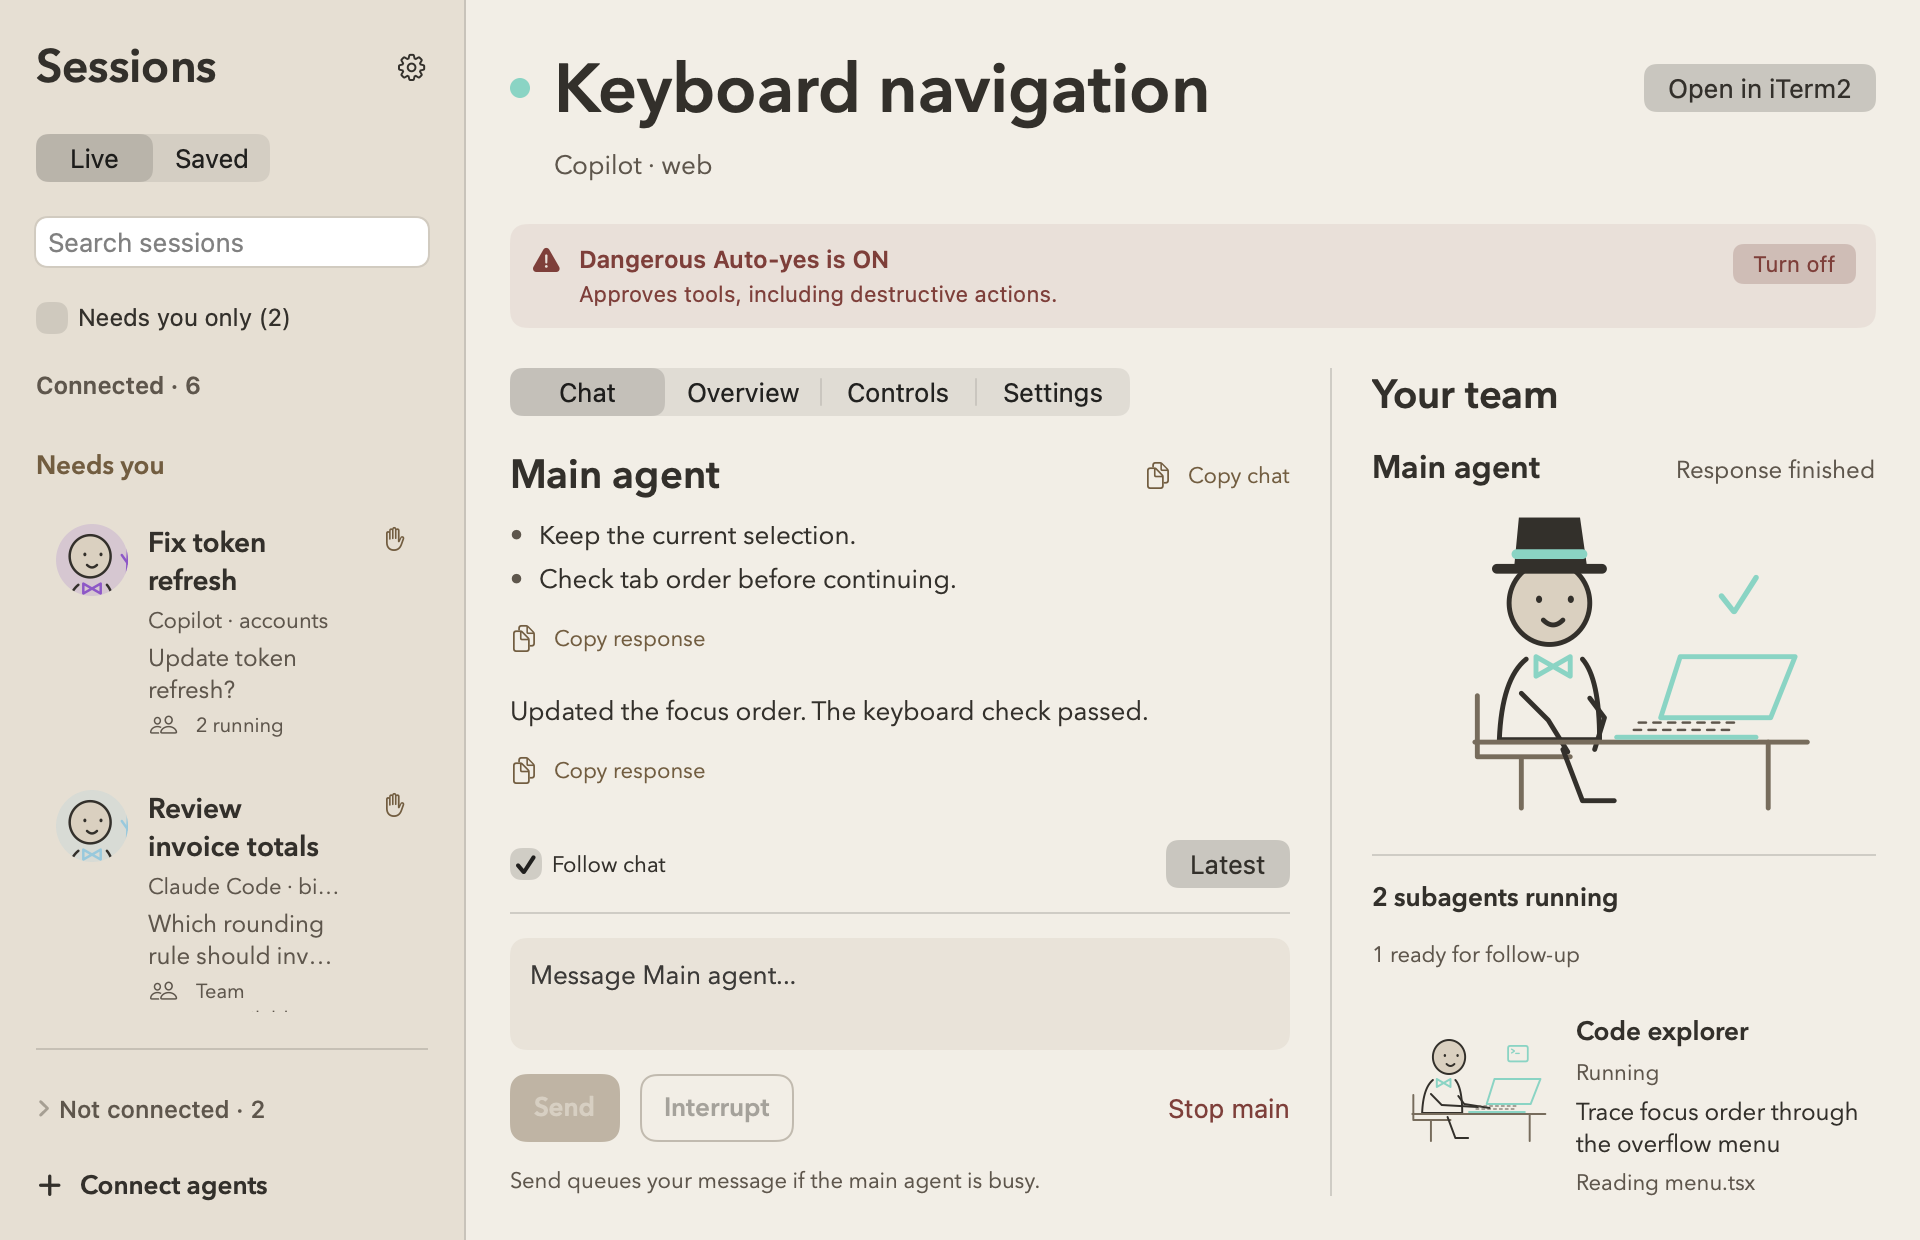
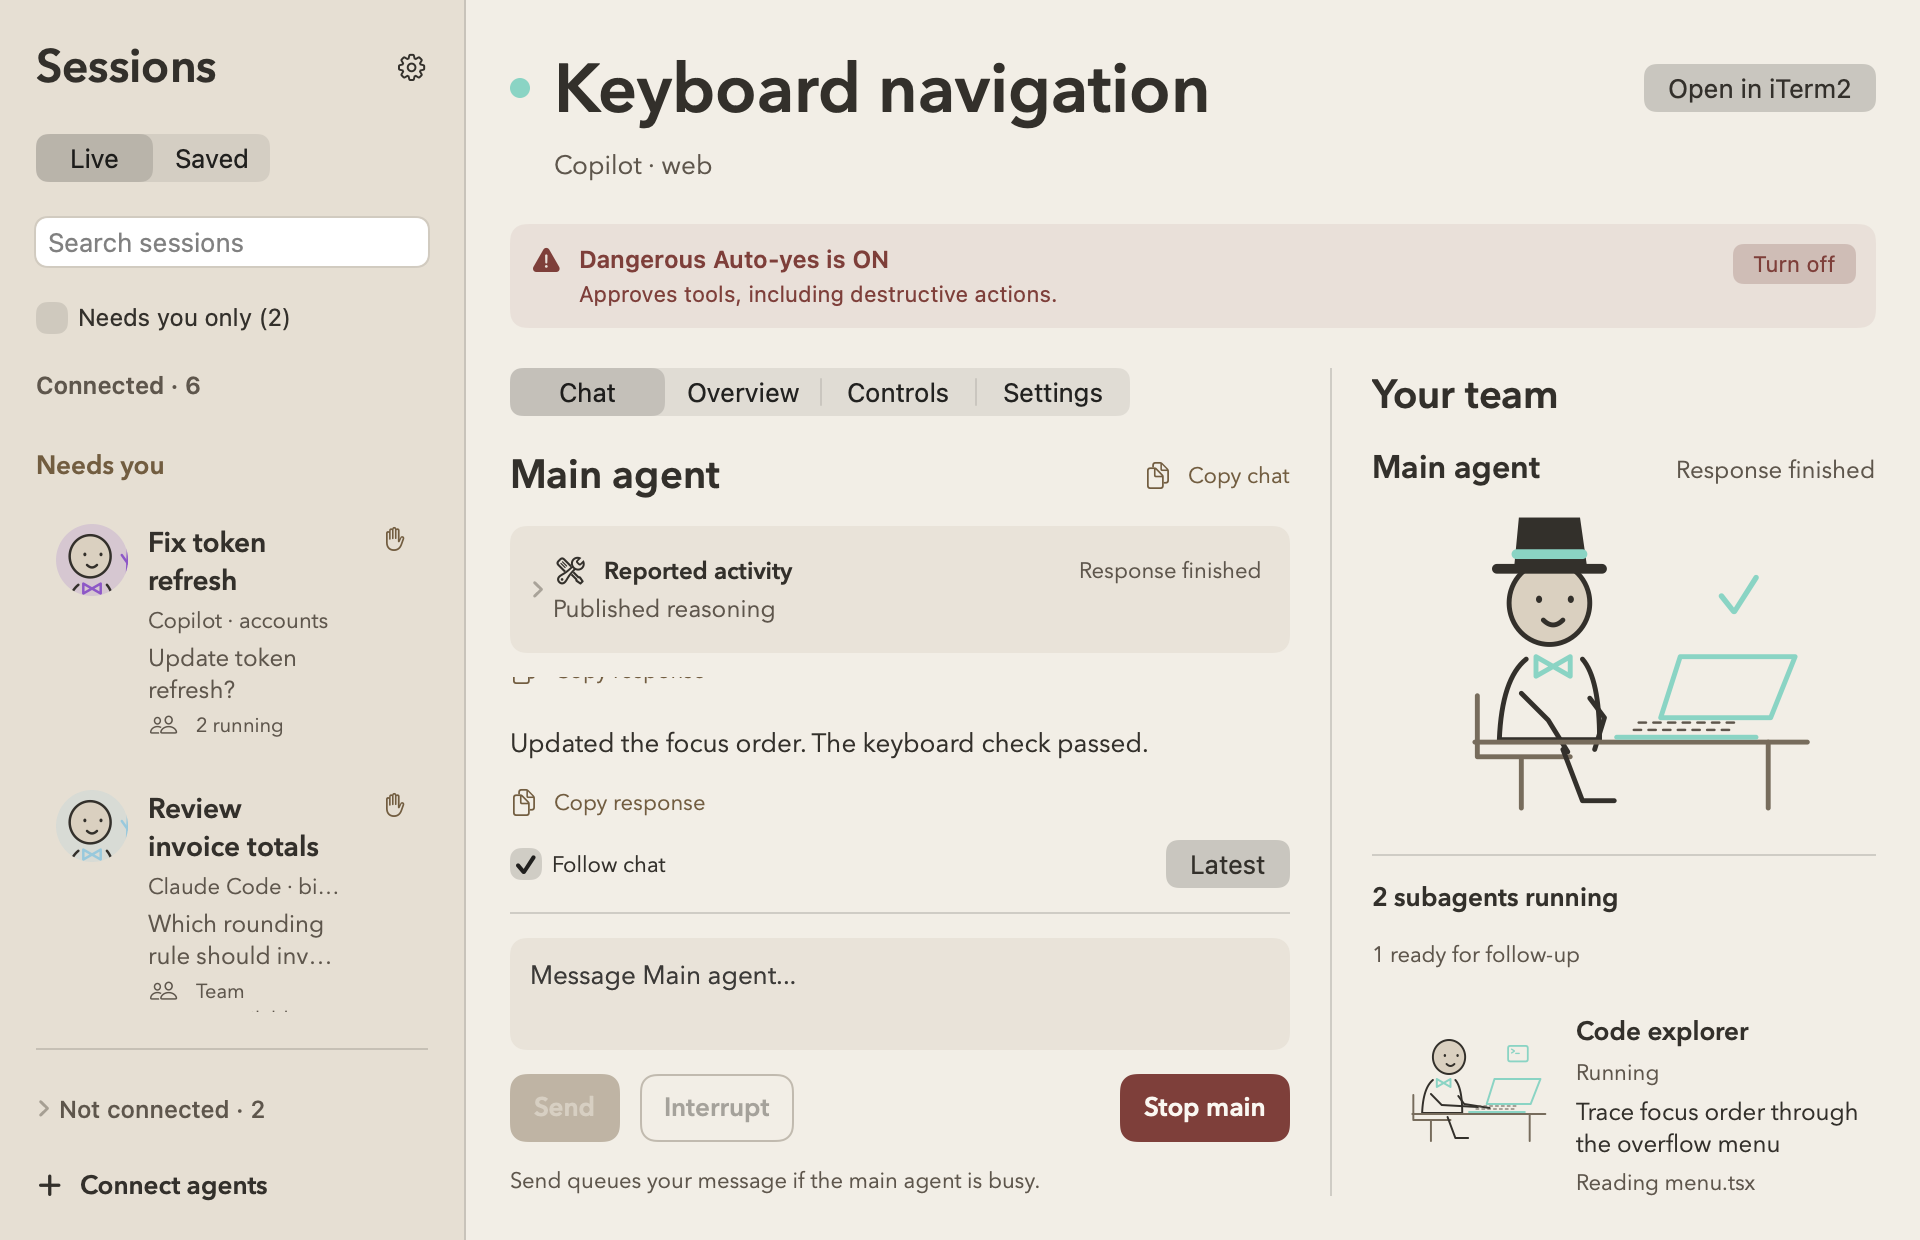
Clarify helper chat identity and add compact reported activity

diff --git a/Sources/NotifyApp/AgentChatView.swift b/Sources/NotifyApp/AgentChatView.swift
@@ -36,10 +36,24 @@ struct AgentChatView: View {
     var body: some View {
         VStack(alignment: .leading, spacing: 12) {
             HStack {
-                Text(targetName).font(WorkspaceType.text(20, strong: true)).lineLimit(2)
+                if agentID != nil {
+                    AgentIllustration(presence: .resting, accent: store.sessionColor(session), portrait: true)
+                        .frame(width: 40, height: 40).accessibilityHidden(true)
+                }
+                VStack(alignment: .leading, spacing: 3) {
+                    Text(targetName).font(WorkspaceType.text(20, strong: true)).lineLimit(2).textSelection(.enabled)
+                    if agentID != nil {
+                        Text("Subagent chat · messages go to this helper only")
+                            .font(WorkspaceType.text(11)).foregroundStyle(Palette.muted)
+                    }
+                }
                 Spacer()
                 CopyTextButton(text: rows.map(\.copyText).joined(separator: "\n\n"), label: "Copy chat")
             }
+            .padding(agentID == nil ? 0 : 10)
+            .background(agentID == nil ? Color.clear : store.sessionColor(session).opacity(0.12),
+                        in: RoundedRectangle(cornerRadius: 8))
+            AgentActivityPanel(session: session, agentID: agentID)
             ScrollViewReader { proxy in
                 ScrollView {
                     LazyVStack(alignment: .leading, spacing: 20) {
@@ -94,7 +108,7 @@ struct AgentChatView: View {
                 }
                 Spacer(minLength: 0)
                 Button(agentID == nil ? "Stop main" : "Stop subagent") { confirmAction = "stop" }
-                    .buttonStyle(.plain).foregroundStyle(Palette.error)
+                    .buttonStyle(ReplyButtonStyle(primary: true, destructive: true))
                     .disabled(sending || store.steeringWorkspace.unavailableReason(session: session, agentID: agentID, action: "stop") != nil)
             }
             Text(agentID == nil ? "Send queues your message if the main agent is busy." :
@@ -125,6 +139,67 @@ struct AgentChatView: View {
             CopyTextButton(text: text, label: "Copy message")
         }.frame(maxWidth: .infinity, alignment: .leading).padding(12)
             .background(Palette.background, in: RoundedRectangle(cornerRadius: 8))
+    }
+}
+
+struct AgentActivityPanel: View {
+    let session: SessionRecord
+    let agentID: String?
+    @State private var expanded = false
+    var reported: [ActivityEntry] {
+        Array(session.activity.entries.filter {
+            $0.agentID == agentID && ["tool", "reasoning", "status"].contains($0.kind)
+        }.suffix(12))
+    }
+    private var state: String {
+        guard let agentID else { return AgentPresence(session: session).title }
+        guard session.connected, session.team?.error == nil,
+              let agent = session.team?.agents.first(where: { $0.id == agentID }) else { return "Unavailable" }
+        return agent.status == .running ? "Working" : agent.status == .idle ? "At rest" :
+            agent.status == .cancelled ? "Stopped" : agent.status.rawValue.capitalized
+    }
+    var body: some View {
+        DisclosureGroup(isExpanded: $expanded) {
+            if reported.isEmpty {
+                Text("No tool or thinking activity has been reported for this agent yet.")
+                    .font(WorkspaceType.text(12)).foregroundStyle(Palette.muted)
+            } else {
+                ScrollView {
+                    VStack(alignment: .leading, spacing: 10) {
+                        Text("Up to 12 recent updates. Statuses are last reported, not proof of task success.")
+                            .font(WorkspaceType.text(11)).foregroundStyle(Palette.muted)
+                        ForEach(reported.reversed()) { entry in
+                            DisclosureGroup {
+                                ScrollView(.horizontal) {
+                                    Text(entry.detail)
+                                        .font(entry.kind == "tool" ? .system(size: 12, design: .monospaced) : WorkspaceType.text(12))
+                                        .textSelection(.enabled).fixedSize(horizontal: true, vertical: true)
+                                }
+                                CopyTextButton(text: entry.detail, label: "Copy activity")
+                            } label: {
+                                HStack(alignment: .firstTextBaseline) {
+                                    Text(entry.title).font(WorkspaceType.text(12, strong: true)).lineLimit(2)
+                                    Spacer(minLength: 6)
+                                    Text(entry.status.capitalized).font(WorkspaceType.text(11))
+                                        .foregroundStyle(entry.status == "failed" ? Palette.error : Palette.muted)
+                                }
+                            }
+                        }
+                    }.padding(.vertical, 8)
+                }.frame(height: 160)
+            }
+        } label: {
+            VStack(alignment: .leading, spacing: 3) {
+                HStack {
+                    Label("Reported activity", systemImage: "wrench.and.screwdriver")
+                        .font(WorkspaceType.text(12, strong: true))
+                    Spacer(minLength: 4)
+                    Text(state).font(WorkspaceType.text(11)).foregroundStyle(Palette.muted)
+                }
+                Text(reported.last?.title ?? "Waiting for an activity update")
+                    .font(WorkspaceType.text(12)).foregroundStyle(Palette.muted).lineLimit(1)
+            }
+        }.padding(10).background(Palette.background, in: RoundedRectangle(cornerRadius: 8))
     }
 }
 

diff --git a/Tests/UI/main.swift b/Tests/UI/main.swift
@@ -61,6 +61,17 @@ import Vision
             try receiveTeam(["type": "control_status", "sessionID": "team-session", "commandID": disconnectedStop, "status": "stopped"])
             precondition(teamStore.registry.sessions["team-session"]?.stopped == false,
                          "An old connection's stop must not freeze the reconnected main agent")
+            for (id, child) in [("main-tool", false), ("child-tool", true)] {
+                var activity: [String: Any] = ["id": id, "kind": "tool", "title": id,
+                    "detail": "Reported command and result", "status": "running",
+                    "timestamp": ISO8601DateFormatter().string(from: Date())]
+                if child { activity["agentID"] = "worker-1" }
+                try receiveTeam(["type": "activity", "sessionID": "team-session", "activity": activity])
+            }
+            let activitySession = teamStore.registry.sessions["team-session"]!
+            precondition(AgentActivityPanel(session: activitySession, agentID: nil).reported.map(\.id) == ["main-tool"] &&
+                         AgentActivityPanel(session: activitySession, agentID: "worker-1").reported.map(\.id) == ["child-tool"],
+                         "The compact activity panel must show only the selected agent's reported actions")
         }
         do {
             let recovering = Store(directory: fixtureRoot.appendingPathComponent("error-recovery"), defaults: defaults)
@@ -1065,6 +1076,9 @@ import Vision
                     let childText = (recognition.results ?? []).compactMap { $0.topCandidates(1).first?.string }.joined(separator: "\n")
                     precondition(childText.contains("Stop subagent") && childText.contains("Message Code explorer"),
                                  "Clicking a worker must open its own composer and controls. Found: \(childText)")
+                    precondition(childText.contains("Subagent chat") && childText.contains("Reading menu.tsx") &&
+                                 !childText.contains("Inspect project files"),
+                                 "Helper chat must show distinct identity and only its own compact activity. Found: \(childText)")
                     try childBitmap.representation(using: .png, properties: [:])!.write(to: output.appendingPathComponent("control-center-subagent-chat.png"))
                     window.orderOut(nil)
                 }

diff --git a/Sources/NotifyApp/Views.swift b/Sources/NotifyApp/Views.swift
@@ -498,6 +498,7 @@ struct RequestEditor: View {
 struct ReplyButtonStyle: ButtonStyle {
     let primary: Bool
     var highlighted: Bool?
+    var destructive = false
     @Environment(\.isEnabled) private var enabled
     func makeBody(configuration: Configuration) -> some View {
         let filled = highlighted ?? primary
@@ -505,7 +506,7 @@ struct ReplyButtonStyle: ButtonStyle {
             .fixedSize(horizontal: false, vertical: true)
             .padding(.horizontal, 12).padding(.vertical, 8)
             .foregroundStyle(filled ? Palette.highlightInk : Palette.ink)
-            .background(filled ? Palette.accent : Color.clear, in: RoundedRectangle(cornerRadius: 8))
+            .background(filled ? (destructive ? Palette.error : Palette.accent) : Color.clear, in: RoundedRectangle(cornerRadius: 8))
             .overlay(RoundedRectangle(cornerRadius: 8).strokeBorder(filled ? .clear : Palette.line, lineWidth: 1))
             .opacity(!enabled ? 0.4 : (configuration.isPressed ? 0.7 : 1))
     }

diff --git a/docs/guide.md b/docs/guide.md
@@ -190,9 +190,13 @@ In the control center, choose **Chat** to message the main agent. **Send** queue
 
 Click a subagent in **Your team** to select that helper. Its composer has its own draft and delivery receipts. **Send** steers a running helper or wakes an idle supported helper; **Stop subagent** confirms before cancelling only that helper. Other agents are not stopped, and existing edits are not undone. Ended, unavailable and unsupported helpers remain read-only. Some runtime task types reject messaging even while listed; that failure is shown rather than redirecting your message. Creating a new helper or restarting an ended one remains in the original terminal.
 
-The larger main agent wears a hat. Working agents visibly type; idle agents occasionally blink or glance. An acknowledged stop has a still pose. Motion pauses when the window is hidden or Reduce Motion is enabled. An idle or finished response does not mean the whole task succeeded.
+The larger main agent wears a hat. Helper chats use a mini portrait, the helper's name and a tinted **Subagent chat** header, with the selected helper highlighted in the team. **Stop main** and **Stop subagent** are filled red buttons and still require confirmation.
 
-Chat shows responses observed while Notify is connected and your messages sent from the app. It is not a complete historical transcript; internal helper prompts and tool command/result logs are omitted. **Copy response**, **Copy message**, **Copy chat** and code-block **Copy** copy their full available text. Scrolling up pauses **Follow chat**; **Latest** returns to the newest message.
+Working agents visibly type; idle agents occasionally blink or glance. An acknowledged stop has a still pose. Motion pauses when the window is hidden or Reduce Motion is enabled. An idle or finished response does not mean the whole task succeeded.
+
+Chat shows responses observed while Notify is connected and your messages sent from the app. It is not a complete historical transcript; internal helper prompts are omitted. **Reported activity** above the conversation shows the selected agent's latest reported action. Expand it to browse up to 12 recent tools, results and provider-shared reasoning updates; expand an individual entry for its available details and **Copy activity**. These details do not clutter the chat, and no hidden reasoning is inferred.
+
+**Copy response**, **Copy message**, **Copy chat** and code-block **Copy** copy their full available text. Scrolling up pauses **Follow chat**; **Latest** returns to the newest message.
 
 Choose **Steer an Agent** from Notify's menu-bar menu, or **Send instruction** from session details. The floating panel stays available even when no permission is pending. Select the target chat, read its latest activity, and type a direction:
 

diff --git a/README.md b/README.md
@@ -48,6 +48,8 @@ This installs **`~/Applications/Notify.app`** and the **`~/.local/bin/notify`** 
 
 Select a connected Copilot session's **Chat** tab, type a message and choose **Send**. Click a helper in **Your team** to open its own chat and **Stop subagent** control. Sending to an idle supported helper wakes it for follow-up; ended helpers stay read-only. The main agent has separate **Interrupt** and **Stop main** controls, with confirmation.
 
+Helper chats have their own portrait, name and tinted **Subagent chat** header. **Reported activity** shows the selected agent's latest action; expand it for recent tools, results and shared reasoning. The red Stop buttons always act on the named target.
+
 **Already connected but controls are unavailable?** Reload the Notify extension in that Copilot terminal. Existing Claude terminals and unsupported helpers cannot be messaged through Notify; the app explains when a control is unavailable.
 
 Try a sample request without starting an agent or spending model credits:
